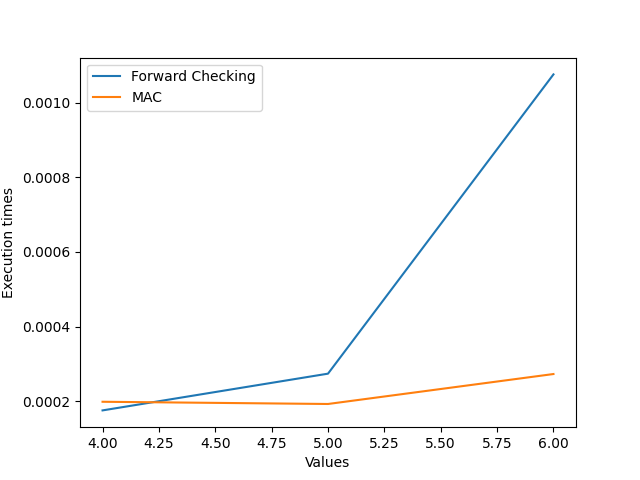
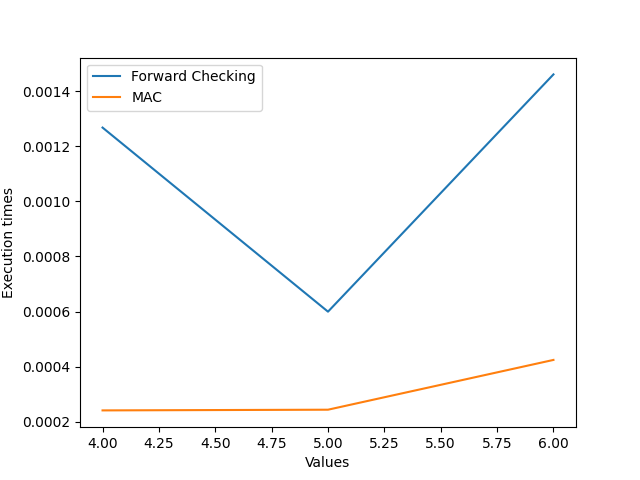
NQueensProblem.py and BlockedNQueensProblem.py completed

diff --git a/BlockedNQueensProblem.py b/BlockedNQueensProblem.py
@@ -315,23 +315,38 @@ def main():
     if not result:
         print("Error, it doesn't exist a solution")
 
+    print("Waiting 10 seconds before the beginning of main tests...")
     time.sleep(10)  # Wait 10 seconds before the main part of tests
 
 
     # ------------------------------------------- MAIN TESTS -------------------------------------------
 
+    # # Counters for updating the number of total operations for each chessboard's dimension
     totalOperationsWithFC = 0
     totalOperationsWithMAC = 0
-    sumFC = []
-    sumMAC = []
-    numberOfOperationsWithFC = []
-    numberOfOperationsWithMAC = []
+
+    # Counters for updating the number of total operations
     numOpMac = 0
     numOpFc = 0
+
+    # Arrays for storing total operations made
+    numberOfOperationsWithFC = []
+    numberOfOperationsWithMAC = []
+
+    # Arrays for storing total execution times
+    sumFC = []
+    sumMAC = []
+
+    # Counters for updating the total execution time
+    totalTimeFC = 0
+    totalTimeMAC = 0
+
+    # Number of iterations for every dimension
     numIterations = 50
 
     totalTime = 0
 
+    # We execute Forward Checking for every dimension, and then the same for MAC
     for k in range(numIterations):  # Execute numIterations times for every dimension
 
         chessBoard4x4, chessBoard5x5, chessBoard6x6 = initializeChessboardsForTests()
@@ -344,6 +359,7 @@ def main():
         if not result:
             print("It doesn't exist a solution with FC")
 
+    totalTimeFC += totalTime
     avgFC = totalTime / numIterations
     numOpFc += totalOperationsWithFC
     sumFC.append(avgFC)
@@ -362,6 +378,7 @@ def main():
         if not result:
             print("It doesn't exist a solution with FC")
 
+    totalTimeFC += totalTime
     avgFC = totalTime / numIterations
     numOpFc += totalOperationsWithFC
     sumFC.append(avgFC)
@@ -381,6 +398,7 @@ def main():
         if not result:
             print("It doesn't exist a solution with FC")
 
+    totalTimeFC += totalTime
     avgFC = totalTime / numIterations
     numOpFc += totalOperationsWithFC
     sumFC.append(avgFC)
@@ -401,6 +419,7 @@ def main():
         if not result:
             print("It doesn't exist a solution with MAC")
 
+    totalTimeMAC += totalTime
     avg = totalTime / numIterations
     numOpMac += totalOperationsWithMAC
     sumMAC.append(avg)
@@ -420,6 +439,7 @@ def main():
         if not result:
             print("It doesn't exist a solution with MAC")
 
+    totalTimeMAC += totalTime
     avg = totalTime / numIterations
     numOpMac += totalOperationsWithMAC
     sumMAC.append(avg)
@@ -439,11 +459,13 @@ def main():
         if not result:
             print("It doesn't exist a solution with MAC")
 
+    totalTimeMAC += totalTime
     avg = totalTime / numIterations
     numOpMac += totalOperationsWithMAC
     sumMAC.append(avg)
     numberOfOperationsWithMAC.append(totalOperationsWithMAC)
 
+    # Chessboard's dimensions from 4x4 to 6x6
     values = np.arange(4, 7, 1)
 
     print("TOTAL OPERATIONS (including placing a 'Q' and its constraints, "
@@ -451,6 +473,11 @@ def main():
     print("\n")
     print("Total operations made by Forward Checking: " + str(numOpFc))
     print("Total operations made by MAC: " + str(numOpMac))
+    print("\n")
+    print("TOTAL EXECUTION TIMES")
+    print("\n")
+    print("Total execution time with Forward Checking: " + str(totalTimeFC) + " seconds")
+    print("Total execution time with MAC: " + str(totalTimeMAC) + " seconds")
     plt.plot(values, sumFC)
     plt.plot(values, sumMAC)
     plt.xlabel("Values")
@@ -470,6 +497,7 @@ def main():
     return True
 
 
+# Initialize the 4x4, 5x5 and 6x6 chessboards
 def initializeChessboardsForTests():
     chessBoard4x4 = [['Q', '', '', ''], ['F', 'F', '', ''], ['', '', '', ''], ['', 'F', '', '']]
     chessBoard5x5 = [['Q', '', '', '', ''], ['F', 'F', '', '', ''], ['', '', '', 'F', ''], ['', 'F', '', '', ''],

diff --git a/NQueensProblem.py b/NQueensProblem.py
@@ -296,24 +296,44 @@ def main():
 
     time.sleep(10)  # Wait 10 seconds before the main part of tests
 
-    # MAIN TESTS
+    # ------------------------------------- MAIN TESTS ------------------------------------
 
     values = np.arange(4, 14, 1)  # chessboard dimensions from 4x4 to 13x13
+
+    # Counters for updating the number of total operations for each chessboard's dimension
     totalOperationsWithFC = 0
     totalOperationsWithMAC = 0
-    sumFC = []
-    sumMAC = []
-    numberOfOperationsWithFC = []
-    numberOfOperationsWithMAC = []
+
+    # Counters for updating the number of total operations
     numOpMac = 0
     numOpFc = 0
+
+    # Arrays for storing total operations made
+    numberOfOperationsWithFC = []
+    numberOfOperationsWithMAC = []
+
+    # Counters for updating the total execution time
+    totalTimeFC = 0
+    totalTimeMAC = 0
+
+    # Arrays for storing total execution times
+    sumFC = []
+    sumMAC = []
+
+    # Number of iterations for every dimension
     numIterations = 50
-    for n in values:  # Chess board's defined by values
+
+    # Chessboard's dimensions defined by values (nxn)
+    for n in values:
         totalTime = 0
 
-        for k in range(numIterations):  # Execute 50 times for every dimension
-            chessBoard = [['' for i in range(n)] for j in range(n)]  # Initialize the chessboard
+        # Execute numIterations times for every dimension
+        for k in range(numIterations):
 
+            # Initialize the nxn chessboard with all empty spaces ('')
+            chessBoard = [['' for i in range(n)] for j in range(n)]
+
+            # By default, we put the first 'Q' in the position [0,0]
             chessBoard[0][0] = 'Q'
             start = timer()
             result, numOperationsWithFC = checkAttemptWithFC(0, 0, chessBoard, n, operationFC)
@@ -323,17 +343,21 @@ def main():
             if not result:
                 print("It doesn't exist a solution with FC")
 
+        totalTimeFC += totalTime
         avgFC = totalTime / numIterations
         numOpFc += totalOperationsWithFC
         sumFC.append(avgFC)
         numberOfOperationsWithFC.append(totalOperationsWithFC)
         totalTime = 0
 
-        # chessBoard = []
 
-        for k in range(numIterations):  # Execute 50 times for every dimension
-            chessBoard = [['' for i in range(n)] for j in range(n)]  # Initialize the chessboard
+        # Execute numIterations times for every dimension
+        for k in range(numIterations):
 
+            # Initialize the nxn chessboard with empty spaces ('')
+            chessBoard = [['' for i in range(n)] for j in range(n)]
+
+            # By default, we put the first 'Q' in the position [0,0]
             chessBoard[0][0] = 'Q'
             start = timer()
             result, numOperationsWithMAC = checkAttemptWithMAC(chessBoard, 0, 0, n, operationMAC)
@@ -343,6 +367,7 @@ def main():
             if not result:
                 print("It doesn't exist a solution with MAC")
 
+        totalTimeMAC += totalTime
         avg = totalTime / numIterations
         numOpMac += totalOperationsWithMAC
         sumMAC.append(avg)
@@ -353,6 +378,11 @@ def main():
     print("\n")
     print("Total operations made by Forward Checking: " + str(numOpFc))
     print("Total operations made by MAC: " + str(numOpMac))
+    print("\n")
+    print("TOTAL EXECUTION TIMES")
+    print("\n")
+    print("Total execution time with Forward Checking: " + str(totalTimeFC) + " seconds")
+    print("Total execution time with MAC: " + str(totalTimeMAC) + " seconds")
     plt.plot(values, sumFC)
     plt.plot(values, sumMAC)
     plt.xlabel("Values")
